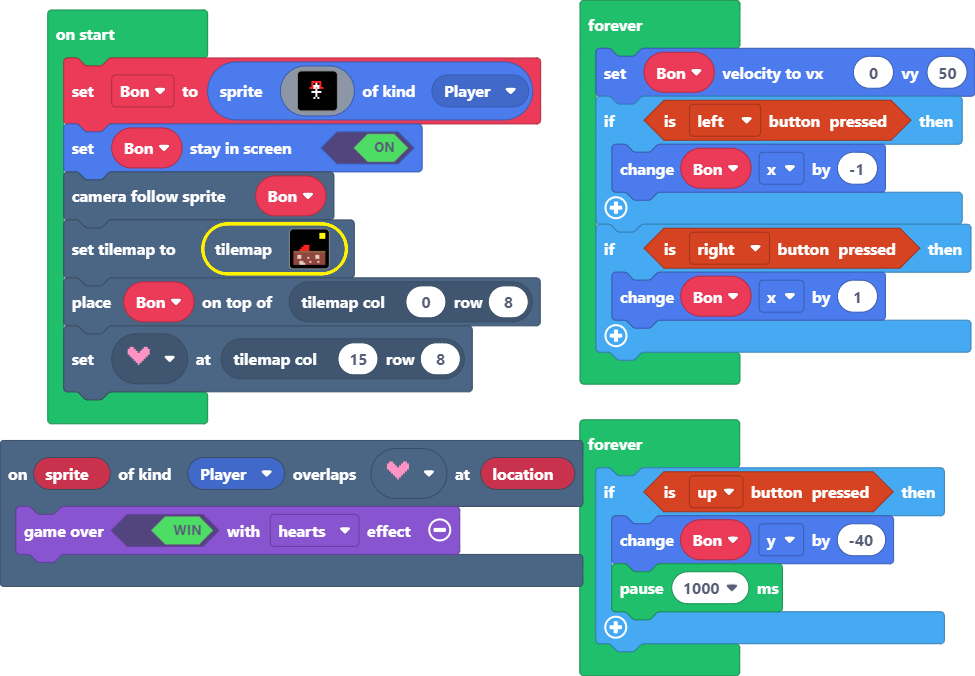
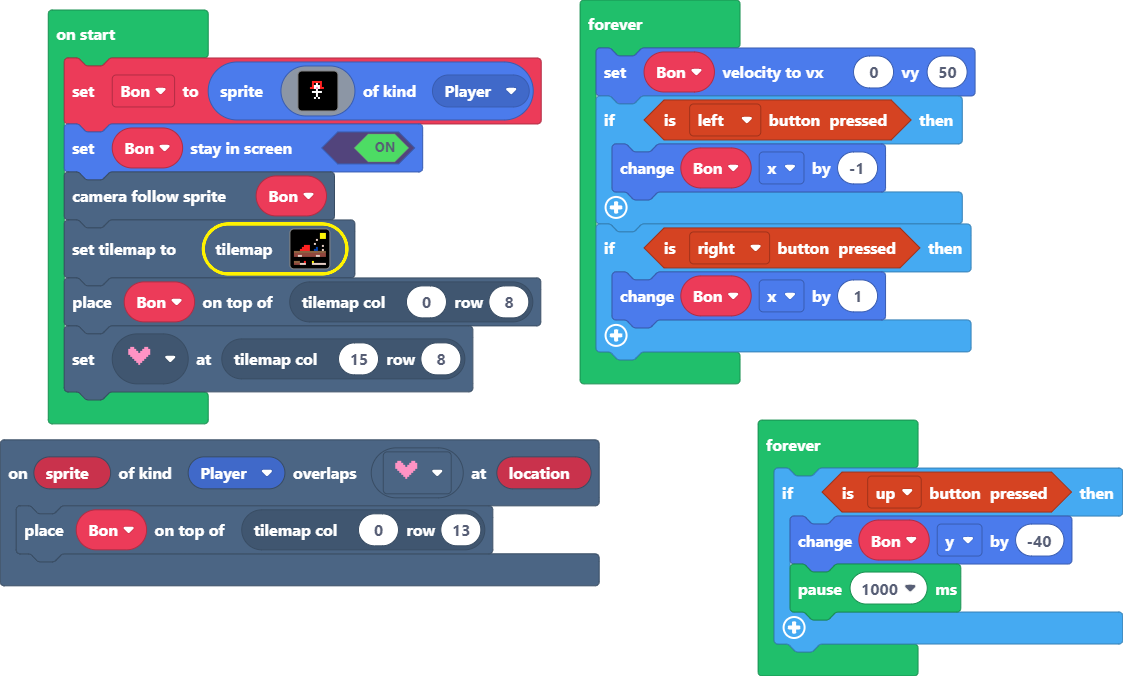
Update main.blocks, main.ts, tilemap.g.jres, tilemap.g.ts

diff --git a/tilemap.g.ts b/tilemap.g.ts
@@ -20,6 +20,10 @@ namespace myTiles {
     export const tile8 = image.ofBuffer(hex``);
     //% fixedInstance jres blockIdentity=images._tile
     export const tile9 = image.ofBuffer(hex``);
+    //% fixedInstance jres blockIdentity=images._tile
+    export const tile10 = image.ofBuffer(hex``);
+    //% fixedInstance jres blockIdentity=images._tile
+    export const tile11 = image.ofBuffer(hex``);
 
     helpers._registerFactory("tilemap", function(name: string) {
         switch(helpers.stringTrim(name)) {
@@ -119,24 +123,24 @@ namespace myTiles {
 . . . . . . . . . . . . . . . . 
 `, [myTiles.transparency16], TileScale.Sixteen);
             case "level102":
-            case "level2":return tiles.createTilemap(hex`1000100000000000000000000000000002010101000200000000000000000002020101010000000000000000000002000201010100000000000000000002000002020202000000000000000000000000000000000000000000000000000000000000000000000000000607070000000000000000000000000607070700000000000000000000000607070707000000000000000003030303030303030303030303030303040404040404040404040404040404040404050504040404040404050504040404040505040404050404040505040404040404040404040404040404040404040404040505040404050404040504040404040405050504040404040404040404`, img`
+            case "level2":return tiles.createTilemap(hex`1000100000000000000000000000000002010101000200000000000000000002020101010000000000000000000002000201010100000000000000000002000502020202000000000000000000000000000000000000000000000000000005000000000000000000000607070000000000000500000000000607070700000009000000000000000607070707000008090000050003030303030303030303030303030303040404040404040404040404040404040404050504040404040404050504040400000000000000000000000000000000000000000000000000000000000000000303030000060000000100000000000004040405050500000005050505050505`, img`
 . . . . . . . . . 2 2 2 2 2 2 2 
-. . . . . . . . . 2 2 2 2 2 2 2 
-. . . . . . . . . 2 2 2 2 2 2 2 
-. . . . . . . . . 2 2 2 2 2 2 2 
-. . . . . . . . . 2 2 2 2 2 2 2 
-. . . . . . . . . 2 2 2 2 2 2 2 
-. . . . . 2 2 2 . 2 2 2 2 2 2 2 
-. . . . 2 2 2 2 . . . . . . . . 
-. . . 2 2 2 2 2 . . . . . . . . 
+. . . . . . . . . 2 2 . . . . 2 
+. . . . . . . . . 2 . . . . . 2 
+. . . . . . . . . 2 . 2 2 2 . 2 
+. . . . . . . . . 2 . . 2 2 . 2 
+. . . . . . . . . 2 2 . 2 . . 2 
+. . . . . 2 2 2 . 2 . . 2 . 2 2 
+. . . . 2 2 2 2 . . . 2 . . . . 
+. . . 2 2 2 2 2 . . 2 2 . . 2 . 
 2 2 2 2 2 2 2 2 2 2 2 2 2 2 2 2 
 . . . . . . . 2 2 2 2 2 . . . . 
-. . . . . . . . . . . . . . . . 
-. . . . . . . . . . . 2 . . . . 
-. . . . . . . . . . . . . . . . 
+2 2 2 2 2 2 2 2 2 2 2 2 2 2 2 2 
 . . . . . . . . . . . . . . . . 
 . . . . . . . . . . . . . . . . 
-`, [myTiles.transparency16,myTiles.tile1,myTiles.tile2,myTiles.tile4,myTiles.tile5,myTiles.tile6,myTiles.tile8,myTiles.tile9], TileScale.Sixteen);
+2 2 2 . . 2 . . . 2 . . . . . . 
+. . . 2 2 2 . . . 2 2 2 2 2 2 2 
+`, [myTiles.transparency16,myTiles.tile1,myTiles.tile2,myTiles.tile4,myTiles.tile5,myTiles.tile6,myTiles.tile8,myTiles.tile9,myTiles.tile10,myTiles.tile11], TileScale.Sixteen);
         }
         return null;
     })
@@ -162,6 +166,10 @@ namespace myTiles {
             case "tile8":return tile8;
             case "myTile4":
             case "tile9":return tile9;
+            case "myTile5":
+            case "tile10":return tile10;
+            case "myTile6":
+            case "tile11":return tile11;
         }
         return null;
     })

diff --git a/main.ts b/main.ts
@@ -1,7 +1,8 @@
 scene.onOverlapTile(SpriteKind.Player, assets.tile`heart key`, function (sprite, location) {
-    game.over(true, effects.hearts)
+    tiles.placeOnTile(Bon, tiles.getTileLocation(0, 13))
 })
-let Bon = sprites.create(assets.image`Bon`, SpriteKind.Player)
+let Bon: Sprite = null
+Bon = sprites.create(assets.image`Bon`, SpriteKind.Player)
 Bon.setStayInScreen(true)
 scene.cameraFollowSprite(Bon)
 tiles.setCurrentTilemap(tilemap`level102`)
